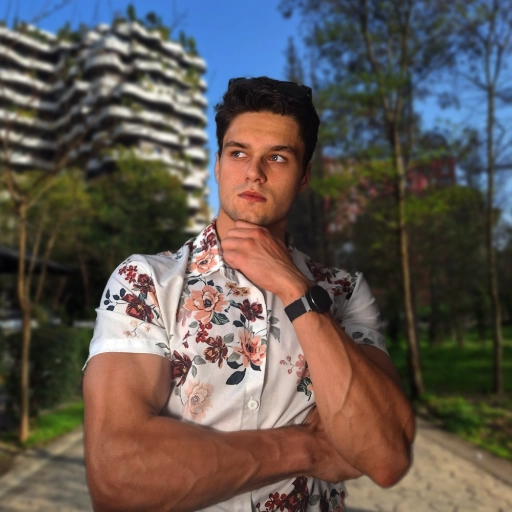
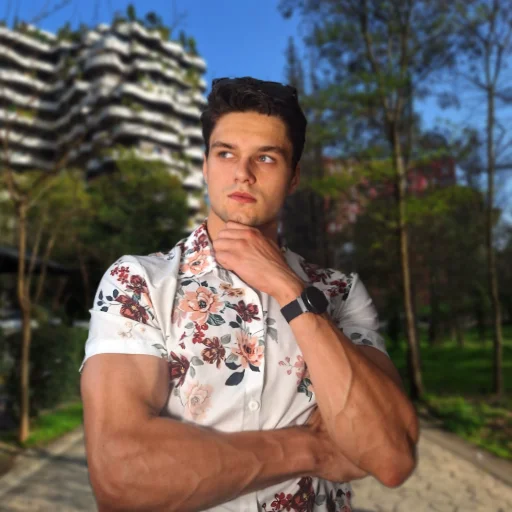
feat: add imprint, privacy policy, and personal story pages with dynamic content loading

Changed region(s): [[0.1562, 0.125, 0.8438, 1.0]]

diff --git a/src/app/imprint/page.tsx b/src/app/imprint/page.tsx
@@ -1,6 +1,8 @@
 import RenderMarkdown from "../components/markdown";
 import Link from "next/link";
 import { Metadata } from "next";
+import { readFileSync } from "fs";
+import { join } from "path";
 import { EMAIL_ADDRESS, PHONE_NUMBER } from "../lib/constants";
 
 export const metadata: Metadata = {
@@ -10,32 +12,9 @@ export const metadata: Metadata = {
     },
 };
 
-const markdown = `
-# Imprint
-
-## Information in accordance with § 5 DDG (Digitale-Dienste-Gesetz)
-
-Emil Krebs
-
-Hansastraße 70,
-24118 Kiel
-
-
-E-Mail: [${EMAIL_ADDRESS}](mailto:${EMAIL_ADDRESS})
-
-Phone: ${PHONE_NUMBER}
-
-## Disclaimer
-
-### Liability for Content
-
-As a service provider we are responsible according to § 7 paragraph 1 of DDG for own contents on these pages under the general laws. According to §§ 8 to 10 DDG we are not obliged as a service provider to monitor transmitted or stored foreign information or to investigate circumstances that indicate illegal activity. Obligations to remove or block the use of information under the general laws remain unaffected. However, a relevant liability is only possible from the date of knowledge of a specific infringement. Upon notification of such violations, we will remove the content immediately.
-
-
-### Liability for Links
-
-This site contains links to external websites over which we have no control. Therefore we can not accept any responsibility for their content. The respective provider or operator of the pages is always responsible for the contents of any Linked Site. The linked sites were checked at the time of linking for possible violations of law. Illegal contents did not exist at the time of linking. A permanent control of the linked pages is unreasonable without concrete evidence of a violation. Upon notification of violations, we will remove such links immediately.
-`;
+const markdown = readFileSync(join(process.cwd(), "src/app/content/imprint.md"), "utf-8")
+    .replaceAll("{{EMAIL_ADDRESS}}", EMAIL_ADDRESS)
+    .replaceAll("{{PHONE_NUMBER}}", PHONE_NUMBER);
 
 export default function Imprint() {
     return (

diff --git a/src/app/story/page.tsx b/src/app/story/page.tsx
@@ -5,15 +5,24 @@ import { readFileSync } from "fs";
 import { join } from "path";
 
 export const metadata: Metadata = {
-    title: "Privacy Policy",
+    title: "My Story",
+    description: "The personal journey, background, and software engineering philosophy of Emil Krebs.",
     alternates: {
-        canonical: "/privacy/",
+        canonical: "/story/",
+    },
+    openGraph: {
+        type: "website",
+        locale: "en_US",
+        url: "https://emilkrebs.dev/story/",
+        title: "My Story | Emil Krebs",
+        description: "The personal journey, background, and software engineering philosophy of Emil Krebs.",
+        siteName: "Emil Krebs",
     },
 };
 
-const markdown = readFileSync(join(process.cwd(), "src/app/content/privacy.md"), "utf-8");
+const markdown = readFileSync(join(process.cwd(), "src/app/content/story.md"), "utf-8");
 
-export default function PrivacyPolicy() {
+export default function StoryPage() {
     return (
         <main id="main" className="flex min-h-screen w-full flex-col items-center justify-start px-6">
             <div className="w-full max-w-3xl my-10">

diff --git a/src/app/my-story/page.tsx b/src/app/my-story/page.tsx
@@ -1,0 +1,4 @@
+import StoryPage, { metadata } from "../story/page";
+
+export { metadata };
+export default StoryPage;

diff --git a/src/app/content/story.md b/src/app/content/story.md
@@ -1,0 +1,32 @@
+# My Story
+
+*A personal narrative on code, developer tooling, and building software.*
+<!-- 
+## Background & Early Explorations -->
+
+I always wanted to invent something new, solve problems and build cool stuff.
+
+At age 10, when I got my first computer I got gifted a book about the visual programming language Scratch. This was my first touch point with software engineering. After building some things in it it annoyed me that I couldn't run these games standalone which spiked the interest in real software development. The first text based programming language I started with was Python, it taught me all the fundamentals and gave me a basic introduction into the new world. Soon I explored the ecosystem more and more but I wanted to make games which got me into Unity and C#, I soon released C# was too complex for me, so I learned it by creating basic desktop applications. In parallel I got invested into web development and created my first frontend but without really understanding what I actually did. 
+
+Step-by-step I began to actually understand how things work and I had my first couple professional paid consulting tasks, helping friends and acquaintances with simple frontend support. I had my first university experience, doing courses at OpenCampus about Game Development, JavaScript, Marketing and Startups along with gaining official certificates where I gained my first ECTs-Points. I also became invested into the startup scene, visiting events like Waterkant and holding my first pitches and speeches.
+
+But my actual career really lifted off until I had my first ever student internship at TypeFox, at age 15. Here I learned the the fundamentals of enterprise level engineering, version control and created the SimpleUI-DSL with a former college.
+
+Soon after I applied, and landed a "Minijob" role at TypeFox, which I worked for 1.5 years, doing mostly frontend architecture and language engineering. After that, school came to an end along the final exams and I mostly did a little freelancing here and there, using the expertise I gained over the last couple years. Then after a short break from all professionalism, spending most of my time with friends and nature. At the start of my first semester, Winter Semester 2025/26 I got back to work and started at TypeFox again, this time in a full professional role, working with clients, large teams and complex projects. All of this while studying full-time for my Bachelors in Computer Science and Sociology.
+
+The way I like to learn has shaped my path, learning by doing. So doing stuff is fundamental for me. 
+
+<!-- 
+## Philosophy & Focus
+
+[Insert your engineering philosophy here. Discuss your passion for language servers, DSLs, developer experience, security, and open source.]
+
+## Key Milestones
+
+- **[Milestone 1]**: [Description of significant achievement, project, or career transition]
+- **[Milestone 2]**: [Description of significant achievement, project, or career transition]
+- **[Milestone 3]**: [Description of significant achievement, project, or career transition]
+
+## Today & Beyond
+
+[Describe what you are currently focused on at TypeFox and personal projects like Prami and Healthstack, and what lies ahead.] -->

diff --git a/src/app/content/privacy.md b/src/app/content/privacy.md
@@ -1,0 +1,28 @@
+# Privacy Policy
+
+## How do we collect information?
+
+To get critical information about the behavior of our visitors, this website uses [Simple Analytics](https://simpleanalytics.com). 
+
+## What information do we collect?
+
+Simple Analytics gives insight about visitors only in general, but not about individuals per se, as it does not track visitors and does not store any personal identifiable information. 
+[Go to their documentation](https://docs.simpleanalytics.com/what-we-collect) to find out what Simple Analytics collects (and most importantly what they don't).
+
+## Cookies
+
+This website does not use cookies. Cookies are small data files that a website transfers to your computer's hard drive when you visit the site. They allow the website to remember certain information about you, such as your preferences or browsing history.
+
+## Third-party links
+
+This site contains links to external websites over which we have no control. Therefore we can not accept any responsibility for their content. The respective provider or operator of the pages is always responsible for the contents of any Linked Site. The linked sites were checked at the time of linking for possible violations of law. Illegal contents did not exist at the time of linking. A permanent control of the linked pages is unreasonable without concrete evidence of a violation. Upon notification of violations, we will remove such links immediately.
+
+## Changes to this privacy policy
+
+We reserve the right to update this privacy policy at any time. We will notify you of any changes by posting the new privacy policy on this website.
+
+## Contact
+
+If you have any questions about this privacy policy, please get in touch with me at [hello@emilkrebs.dev](mailto:hello@emilkrebs.dev).
+
+The source code for this website is available on [GitHub](https://github.com/emilkrebs/emilkrebs.dev).

diff --git a/src/app/content/imprint.md b/src/app/content/imprint.md
@@ -1,0 +1,24 @@
+# Imprint
+
+## Information in accordance with § 5 DDG (Digitale-Dienste-Gesetz)
+
+Emil Krebs
+
+Hansastraße 70,
+24118 Kiel
+
+
+E-Mail: [{{EMAIL_ADDRESS}}](mailto:{{EMAIL_ADDRESS}})
+
+Phone: {{PHONE_NUMBER}}
+
+## Disclaimer
+
+### Liability for Content
+
+As a service provider we are responsible according to § 7 paragraph 1 of DDG for own contents on these pages under the general laws. According to §§ 8 to 10 DDG we are not obliged as a service provider to monitor transmitted or stored foreign information or to investigate circumstances that indicate illegal activity. Obligations to remove or block the use of information under the general laws remain unaffected. However, a relevant liability is only possible from the date of knowledge of a specific infringement. Upon notification of such violations, we will remove the content immediately.
+
+
+### Liability for Links
+
+This site contains links to external websites over which we have no control. Therefore we can not accept any responsibility for their content. The respective provider or operator of the pages is always responsible for the contents of any Linked Site. The linked sites were checked at the time of linking for possible violations of law. Illegal contents did not exist at the time of linking. A permanent control of the linked pages is unreasonable without concrete evidence of a violation. Upon notification of violations, we will remove such links immediately.
